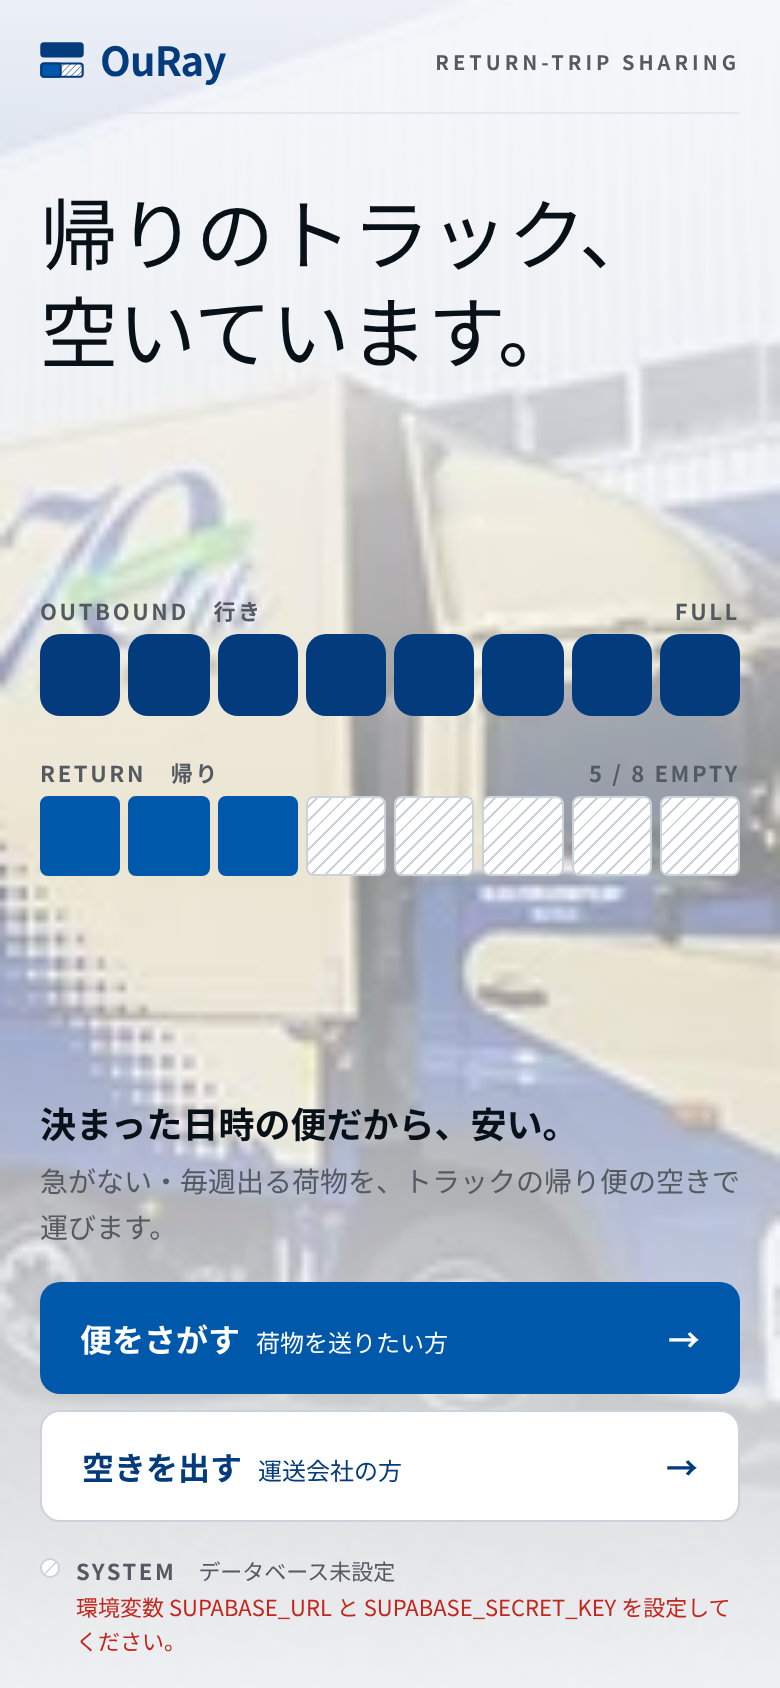
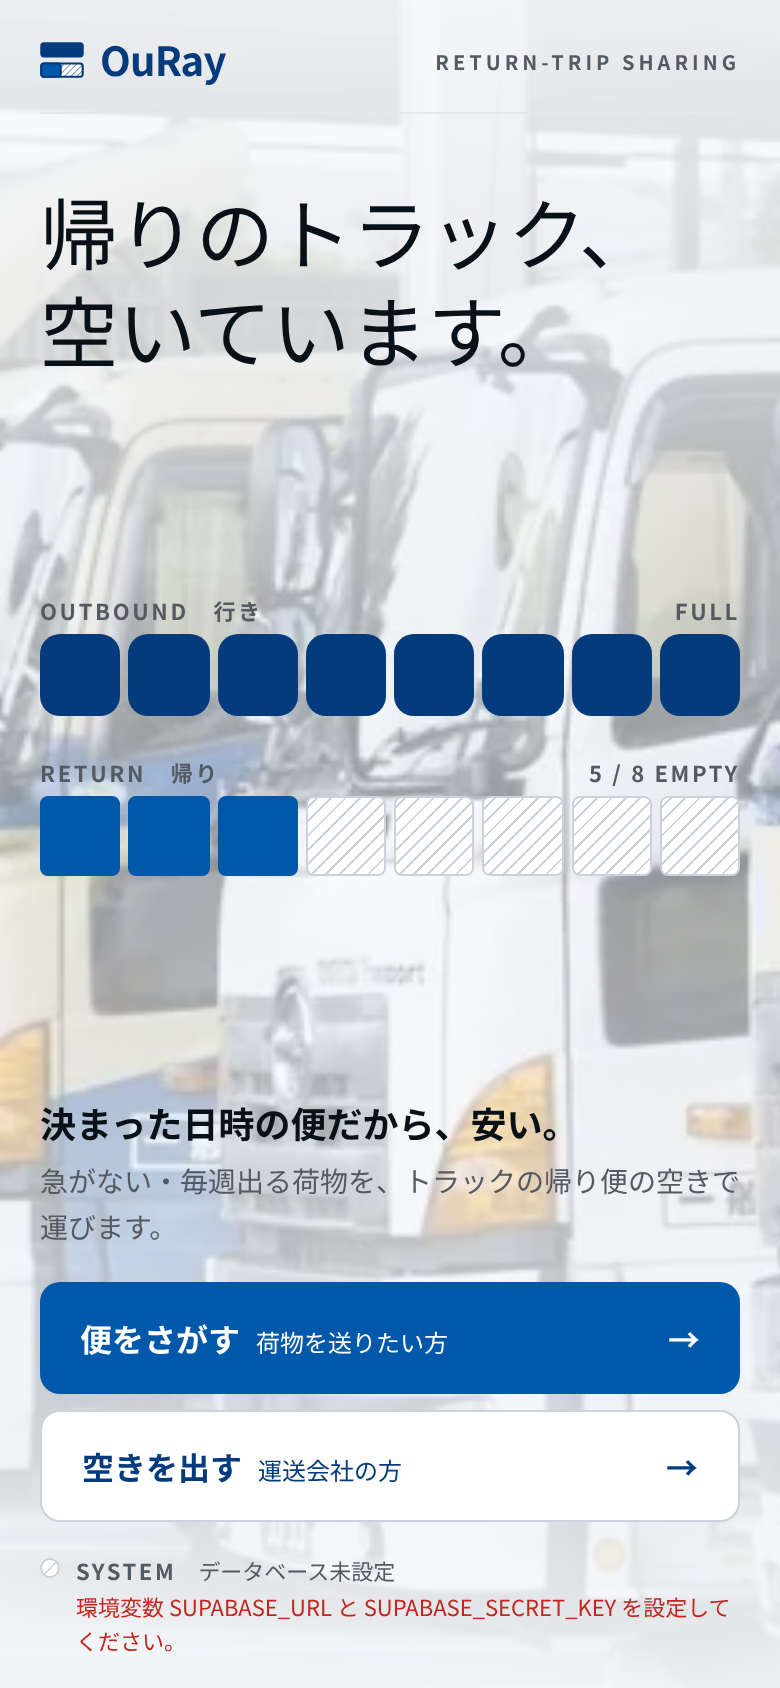
トップページの背景をトラックが並ぶ写真に差し替え
Claude-Session: https://claude.ai/code/session_01Vw4yd5tJWYJSwxhi1seWuh

diff --git a/src/app/page.tsx b/src/app/page.tsx
@@ -45,12 +45,12 @@ export default function Home() {
       {/* 背景：トラックの写真（トヨタモビリティへの提案用）。文字が読みやすいよう、上に薄い白の層を重ねる */}
       <div className="pointer-events-none fixed inset-0 -z-10" aria-hidden>
         <Image
-          src="/images/top-truck.jpg"
+          src="/images/top-trucks.jpg"
           alt=""
           fill
           preload
           sizes="100vw"
-          className="object-cover object-[78%_center] md:object-center"
+          className="object-cover object-[34%_center] md:object-center"
         />
         <div className="absolute inset-0 bg-gradient-to-b from-paper/95 via-paper/55 to-paper/95" />
       </div>

diff --git a/README.md b/README.md
@@ -252,5 +252,5 @@ npm test                     # 金額の計算のテスト
 
 ## 画像について
 
-- トップページの背景のトラックの写真（`public/images/top-truck.jpg`）は、トヨタモビリティへの提案用に入れたものです。
+- トップページの背景のトラックの写真（`public/images/top-trucks.jpg`）は、トヨタモビリティへの提案用に入れたものです。
   写真にはトヨタ輸送のロゴ・車体デザインが写っています。**一般に公開する前に、写真の使用許可を確認してください**（許可がなければ差し替える）。
